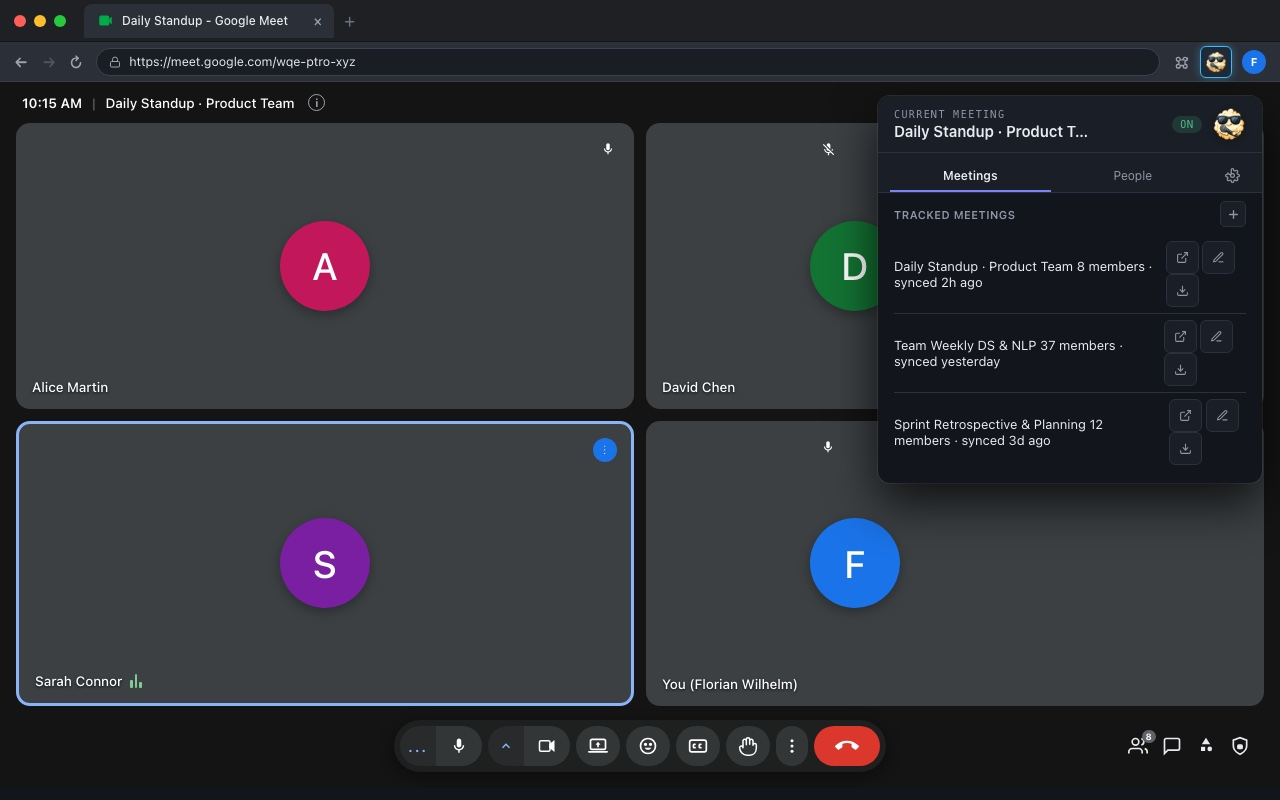
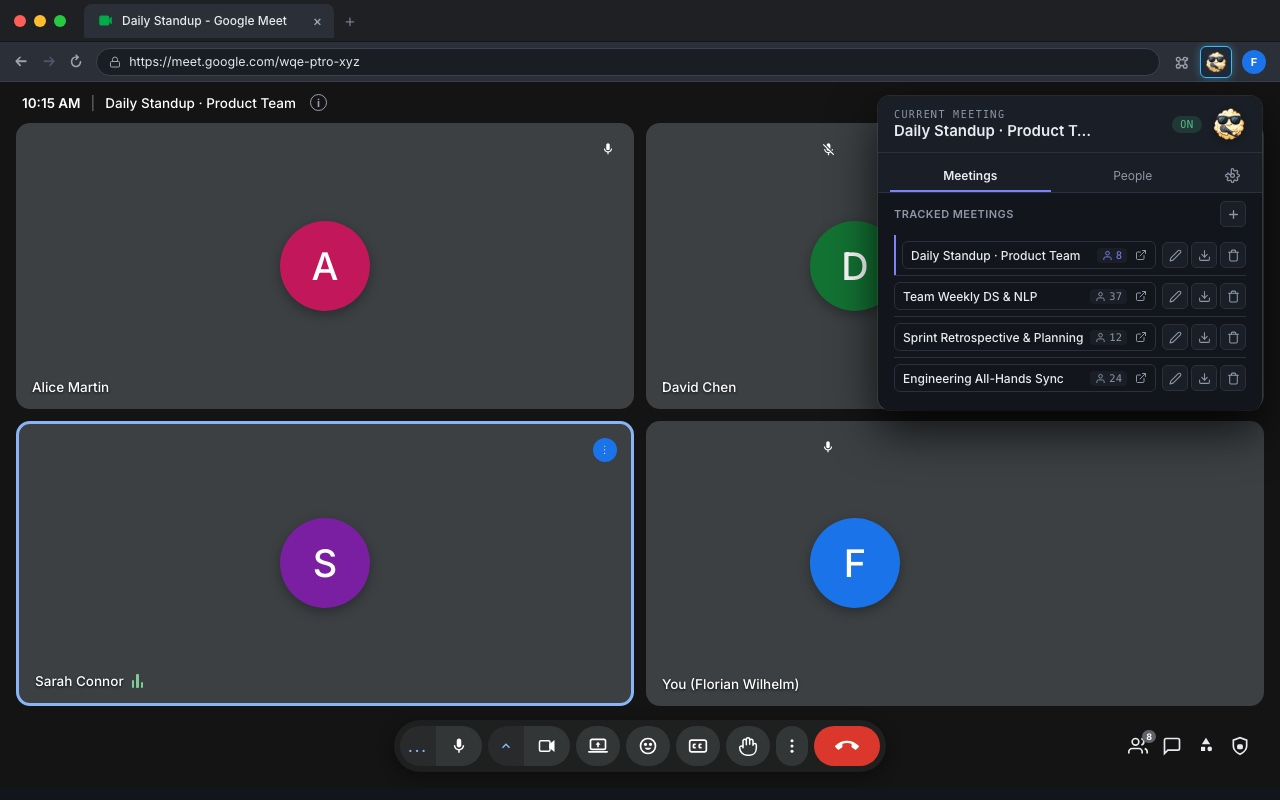
fix(store): correct meetings screenshot and UI description
- Update meetings mockup in scripts/build_store_pages.js to authentically match popup.js DOM
- Remove non-existent sync timestamp references
- Update README.md meetings overview and quick action descriptions
- Re-render store screenshots

diff --git a/scripts/build_store_pages.js b/scripts/build_store_pages.js
@@ -840,48 +840,167 @@ const s2Popup = `
     <!-- Meetings Scroll Area -->
     <div class="meetings-scroll-area">
       <ul class="list">
-        <!-- Meeting 1 -->
-        <li class="item meeting-item active">
-          <div class="meeting-info">
-            <span class="meeting-title">Daily Standup · Product Team</span>
-            <span class="meeting-sub">8 members · synced 2h ago</span>
+        <!-- Meeting 1: Active Meeting -->
+        <li class="meeting current">
+          <div class="meeting-box">
+            <input type="text" class="meeting-name-input" value="Daily Standup · Product Team" title="Edit name" />
+            <div class="meeting-count" title="8 people (in progress)">
+              <svg width="11" height="11" viewBox="0 0 24 24" fill="none" stroke="currentColor" stroke-width="2" stroke-linecap="round" stroke-linejoin="round">
+                <path d="M20 21v-2a4 4 0 0 0-4-4H8a4 4 0 0 0-4 4v2"></path>
+                <circle cx="12" cy="7" r="4"></circle>
+              </svg>
+              <span>8</span>
+            </div>
+            <button class="meeting-open-btn" title="Open people list for this meeting" aria-label="Open meeting">
+              <svg width="12" height="12" viewBox="0 0 24 24" fill="none" stroke="currentColor" stroke-width="2" stroke-linecap="round" stroke-linejoin="round">
+                <path d="M18 13v6a2 2 0 0 1-2 2H5a2 2 0 0 1-2-2V8a2 2 0 0 1 2-2h6"></path>
+                <polyline points="15 3 21 3 21 9"></polyline>
+                <line x1="10" y1="14" x2="21" y2="3"></line>
+              </svg>
+            </button>
           </div>
-          <div class="meeting-actions">
-            <button class="ghost icon-btn" title="Open meeting link">
-              <svg width="13" height="13" viewBox="0 0 24 24" fill="none" stroke="currentColor" stroke-width="2"><path d="M18 13v6a2 2 0 0 1-2 2H5a2 2 0 0 1-2-2V8a2 2 0 0 1 2-2h6"/><polyline points="15 3 21 3 21 9"/><line x1="10" y1="14" x2="21" y2="3"/></svg>
+          <div class="actions">
+            <button class="mini ghost icon-btn" title="View, edit, or copy Markdown" aria-label="Edit Markdown">
+              <svg width="13" height="13" viewBox="0 0 24 24" fill="none" stroke="currentColor" stroke-width="2" stroke-linecap="round" stroke-linejoin="round">
+                <path d="M17 3a2.828 2.828 0 1 1 4 4L7.5 20.5 2 22l1.5-5.5L17 3z"></path>
+              </svg>
             </button>
-            <button class="ghost icon-btn" title="Edit Markdown table">
-              <svg width="13" height="13" viewBox="0 0 24 24" fill="none" stroke="currentColor" stroke-width="2"><path d="M12 20h9"/><path d="M16.5 3.5a2.121 2.121 0 0 1 3 3L7 19l-4 1 1-4L16.5 3.5z"/></svg>
+            <button class="mini ghost icon-btn" title="Export as Markdown file (.md)" aria-label="Export as Markdown file">
+              <svg width="13" height="13" viewBox="0 0 24 24" fill="none" stroke="currentColor" stroke-width="2" stroke-linecap="round" stroke-linejoin="round">
+                <path d="M21 15v4a2 2 0 0 1-2 2H5a2 2 0 0 1-2-2v-4"></path>
+                <polyline points="7 10 12 15 17 10"></polyline>
+                <line x1="12" y1="15" x2="12" y2="3"></line>
+              </svg>
             </button>
-            <button class="ghost icon-btn" title="Export meeting">
-              <svg width="13" height="13" viewBox="0 0 24 24" fill="none" stroke="currentColor" stroke-width="2"><path d="M21 15v4a2 2 0 0 1-2 2H5a2 2 0 0 1-2-2v-4"/><polyline points="7 10 12 15 17 10"/><line x1="12" y1="15" x2="12" y2="3"/></svg>
+            <button class="mini ghost icon-btn danger" title="Stop tracking and delete history" aria-label="Delete meeting">
+              <svg width="13" height="13" viewBox="0 0 24 24" fill="none" stroke="currentColor" stroke-width="2" stroke-linecap="round" stroke-linejoin="round">
+                <path d="M3 6h18"></path>
+                <path d="M19 6v14a2 2 0 0 1-2 2H7a2 2 0 0 1-2-2V6m3 0V4a2 2 0 0 1 2-2h4a2 2 0 0 1 2 2v2"></path>
+              </svg>
             </button>
           </div>
         </li>
 
         <!-- Meeting 2 -->
-        <li class="item meeting-item">
-          <div class="meeting-info">
-            <span class="meeting-title">Team Weekly DS &amp; NLP</span>
-            <span class="meeting-sub">37 members · synced yesterday</span>
+        <li class="meeting">
+          <div class="meeting-box">
+            <input type="text" class="meeting-name-input" value="Team Weekly DS &amp; NLP" title="Edit name" />
+            <div class="meeting-count" title="37 people">
+              <svg width="11" height="11" viewBox="0 0 24 24" fill="none" stroke="currentColor" stroke-width="2" stroke-linecap="round" stroke-linejoin="round">
+                <path d="M20 21v-2a4 4 0 0 0-4-4H8a4 4 0 0 0-4 4v2"></path>
+                <circle cx="12" cy="7" r="4"></circle>
+              </svg>
+              <span>37</span>
+            </div>
+            <button class="meeting-open-btn" title="Open people list for this meeting" aria-label="Open meeting">
+              <svg width="12" height="12" viewBox="0 0 24 24" fill="none" stroke="currentColor" stroke-width="2" stroke-linecap="round" stroke-linejoin="round">
+                <path d="M18 13v6a2 2 0 0 1-2 2H5a2 2 0 0 1-2-2V8a2 2 0 0 1 2-2h6"></path>
+                <polyline points="15 3 21 3 21 9"></polyline>
+                <line x1="10" y1="14" x2="21" y2="3"></line>
+              </svg>
+            </button>
           </div>
-          <div class="meeting-actions">
-            <button class="ghost icon-btn"><svg width="13" height="13" viewBox="0 0 24 24" fill="none" stroke="currentColor" stroke-width="2"><path d="M18 13v6a2 2 0 0 1-2 2H5a2 2 0 0 1-2-2V8a2 2 0 0 1 2-2h6"/><polyline points="15 3 21 3 21 9"/><line x1="10" y1="14" x2="21" y2="3"/></svg></button>
-            <button class="ghost icon-btn"><svg width="13" height="13" viewBox="0 0 24 24" fill="none" stroke="currentColor" stroke-width="2"><path d="M12 20h9"/><path d="M16.5 3.5a2.121 2.121 0 0 1 3 3L7 19l-4 1 1-4L16.5 3.5z"/></svg></button>
-            <button class="ghost icon-btn"><svg width="13" height="13" viewBox="0 0 24 24" fill="none" stroke="currentColor" stroke-width="2"><path d="M21 15v4a2 2 0 0 1-2 2H5a2 2 0 0 1-2-2v-4"/><polyline points="7 10 12 15 17 10"/><line x1="12" y1="15" x2="12" y2="3"/></svg></button>
+          <div class="actions">
+            <button class="mini ghost icon-btn" title="View, edit, or copy Markdown" aria-label="Edit Markdown">
+              <svg width="13" height="13" viewBox="0 0 24 24" fill="none" stroke="currentColor" stroke-width="2" stroke-linecap="round" stroke-linejoin="round">
+                <path d="M17 3a2.828 2.828 0 1 1 4 4L7.5 20.5 2 22l1.5-5.5L17 3z"></path>
+              </svg>
+            </button>
+            <button class="mini ghost icon-btn" title="Export as Markdown file (.md)" aria-label="Export as Markdown file">
+              <svg width="13" height="13" viewBox="0 0 24 24" fill="none" stroke="currentColor" stroke-width="2" stroke-linecap="round" stroke-linejoin="round">
+                <path d="M21 15v4a2 2 0 0 1-2 2H5a2 2 0 0 1-2-2v-4"></path>
+                <polyline points="7 10 12 15 17 10"></polyline>
+                <line x1="12" y1="15" x2="12" y2="3"></line>
+              </svg>
+            </button>
+            <button class="mini ghost icon-btn danger" title="Stop tracking and delete history" aria-label="Delete meeting">
+              <svg width="13" height="13" viewBox="0 0 24 24" fill="none" stroke="currentColor" stroke-width="2" stroke-linecap="round" stroke-linejoin="round">
+                <path d="M3 6h18"></path>
+                <path d="M19 6v14a2 2 0 0 1-2 2H7a2 2 0 0 1-2-2V6m3 0V4a2 2 0 0 1 2-2h4a2 2 0 0 1 2 2v2"></path>
+              </svg>
+            </button>
           </div>
         </li>
 
-        <!-- Meeting 3 -->
-        <li class="item meeting-item">
-          <div class="meeting-info">
-            <span class="meeting-title">Sprint Retrospective &amp; Planning</span>
-            <span class="meeting-sub">12 members · synced 3d ago</span>
+        <!-- Meeting 3: Long name that demonstrates single-line input clipping -->
+        <li class="meeting">
+          <div class="meeting-box">
+            <input type="text" class="meeting-name-input" value="Sprint Retrospective &amp; Planning" title="Edit name" />
+            <div class="meeting-count" title="12 people">
+              <svg width="11" height="11" viewBox="0 0 24 24" fill="none" stroke="currentColor" stroke-width="2" stroke-linecap="round" stroke-linejoin="round">
+                <path d="M20 21v-2a4 4 0 0 0-4-4H8a4 4 0 0 0-4 4v2"></path>
+                <circle cx="12" cy="7" r="4"></circle>
+              </svg>
+              <span>12</span>
+            </div>
+            <button class="meeting-open-btn" title="Open people list for this meeting" aria-label="Open meeting">
+              <svg width="12" height="12" viewBox="0 0 24 24" fill="none" stroke="currentColor" stroke-width="2" stroke-linecap="round" stroke-linejoin="round">
+                <path d="M18 13v6a2 2 0 0 1-2 2H5a2 2 0 0 1-2-2V8a2 2 0 0 1 2-2h6"></path>
+                <polyline points="15 3 21 3 21 9"></polyline>
+                <line x1="10" y1="14" x2="21" y2="3"></line>
+              </svg>
+            </button>
           </div>
-          <div class="meeting-actions">
-            <button class="ghost icon-btn"><svg width="13" height="13" viewBox="0 0 24 24" fill="none" stroke="currentColor" stroke-width="2"><path d="M18 13v6a2 2 0 0 1-2 2H5a2 2 0 0 1-2-2V8a2 2 0 0 1 2-2h6"/><polyline points="15 3 21 3 21 9"/><line x1="10" y1="14" x2="21" y2="3"/></svg></button>
-            <button class="ghost icon-btn"><svg width="13" height="13" viewBox="0 0 24 24" fill="none" stroke="currentColor" stroke-width="2"><path d="M12 20h9"/><path d="M16.5 3.5a2.121 2.121 0 0 1 3 3L7 19l-4 1 1-4L16.5 3.5z"/></svg></button>
-            <button class="ghost icon-btn"><svg width="13" height="13" viewBox="0 0 24 24" fill="none" stroke="currentColor" stroke-width="2"><path d="M21 15v4a2 2 0 0 1-2 2H5a2 2 0 0 1-2-2v-4"/><polyline points="7 10 12 15 17 10"/><line x1="12" y1="15" x2="12" y2="3"/></svg></button>
+          <div class="actions">
+            <button class="mini ghost icon-btn" title="View, edit, or copy Markdown" aria-label="Edit Markdown">
+              <svg width="13" height="13" viewBox="0 0 24 24" fill="none" stroke="currentColor" stroke-width="2" stroke-linecap="round" stroke-linejoin="round">
+                <path d="M17 3a2.828 2.828 0 1 1 4 4L7.5 20.5 2 22l1.5-5.5L17 3z"></path>
+              </svg>
+            </button>
+            <button class="mini ghost icon-btn" title="Export as Markdown file (.md)" aria-label="Export as Markdown file">
+              <svg width="13" height="13" viewBox="0 0 24 24" fill="none" stroke="currentColor" stroke-width="2" stroke-linecap="round" stroke-linejoin="round">
+                <path d="M21 15v4a2 2 0 0 1-2 2H5a2 2 0 0 1-2-2v-4"></path>
+                <polyline points="7 10 12 15 17 10"></polyline>
+                <line x1="12" y1="15" x2="12" y2="3"></line>
+              </svg>
+            </button>
+            <button class="mini ghost icon-btn danger" title="Stop tracking and delete history" aria-label="Delete meeting">
+              <svg width="13" height="13" viewBox="0 0 24 24" fill="none" stroke="currentColor" stroke-width="2" stroke-linecap="round" stroke-linejoin="round">
+                <path d="M3 6h18"></path>
+                <path d="M19 6v14a2 2 0 0 1-2 2H7a2 2 0 0 1-2-2V6m3 0V4a2 2 0 0 1 2-2h4a2 2 0 0 1 2 2v2"></path>
+              </svg>
+            </button>
+          </div>
+        </li>
+
+        <!-- Meeting 4 -->
+        <li class="meeting">
+          <div class="meeting-box">
+            <input type="text" class="meeting-name-input" value="Engineering All-Hands Sync" title="Edit name" />
+            <div class="meeting-count" title="24 people">
+              <svg width="11" height="11" viewBox="0 0 24 24" fill="none" stroke="currentColor" stroke-width="2" stroke-linecap="round" stroke-linejoin="round">
+                <path d="M20 21v-2a4 4 0 0 0-4-4H8a4 4 0 0 0-4 4v2"></path>
+                <circle cx="12" cy="7" r="4"></circle>
+              </svg>
+              <span>24</span>
+            </div>
+            <button class="meeting-open-btn" title="Open people list for this meeting" aria-label="Open meeting">
+              <svg width="12" height="12" viewBox="0 0 24 24" fill="none" stroke="currentColor" stroke-width="2" stroke-linecap="round" stroke-linejoin="round">
+                <path d="M18 13v6a2 2 0 0 1-2 2H5a2 2 0 0 1-2-2V8a2 2 0 0 1 2-2h6"></path>
+                <polyline points="15 3 21 3 21 9"></polyline>
+                <line x1="10" y1="14" x2="21" y2="3"></line>
+              </svg>
+            </button>
+          </div>
+          <div class="actions">
+            <button class="mini ghost icon-btn" title="View, edit, or copy Markdown" aria-label="Edit Markdown">
+              <svg width="13" height="13" viewBox="0 0 24 24" fill="none" stroke="currentColor" stroke-width="2" stroke-linecap="round" stroke-linejoin="round">
+                <path d="M17 3a2.828 2.828 0 1 1 4 4L7.5 20.5 2 22l1.5-5.5L17 3z"></path>
+              </svg>
+            </button>
+            <button class="mini ghost icon-btn" title="Export as Markdown file (.md)" aria-label="Export as Markdown file">
+              <svg width="13" height="13" viewBox="0 0 24 24" fill="none" stroke="currentColor" stroke-width="2" stroke-linecap="round" stroke-linejoin="round">
+                <path d="M21 15v4a2 2 0 0 1-2 2H5a2 2 0 0 1-2-2v-4"></path>
+                <polyline points="7 10 12 15 17 10"></polyline>
+                <line x1="12" y1="15" x2="12" y2="3"></line>
+              </svg>
+            </button>
+            <button class="mini ghost icon-btn danger" title="Stop tracking and delete history" aria-label="Delete meeting">
+              <svg width="13" height="13" viewBox="0 0 24 24" fill="none" stroke="currentColor" stroke-width="2" stroke-linecap="round" stroke-linejoin="round">
+                <path d="M3 6h18"></path>
+                <path d="M19 6v14a2 2 0 0 1-2 2H7a2 2 0 0 1-2-2V6m3 0V4a2 2 0 0 1 2-2h4a2 2 0 0 1 2 2v2"></path>
+              </svg>
+            </button>
           </div>
         </li>
       </ul>

diff --git a/scripts/render_screenshots_chrome.js b/scripts/render_screenshots_chrome.js
@@ -74,10 +74,12 @@ function renderAsset(asset) {
   const tempPng = path.join(tempDir, `${path.basename(asset.output, ".jpeg")}.png`);
   if (fs.existsSync(tempPng)) fs.unlinkSync(tempPng);
 
+  const userDataDir = path.join(tempDir, "user-data");
   const args = [
     "--headless=new",
     "--no-first-run",
     "--no-default-browser-check",
+    `--user-data-dir=${userDataDir}`,
     "--disable-gpu",
     "--disable-extensions",
     "--disable-background-networking",

diff --git a/README.md b/README.md
@@ -92,11 +92,12 @@ Switch to the **Meetings** tab to see and manage all your tracked teams and recu
   <img src="store_assets/screenshot2_meetings_1280x800.jpeg" alt="POPCORN Multi-Meeting Management" width="100%" />
 </p>
 
-- **Meeting Overview:** See all tracked meetings, active status, attendee count, and last sync time.
+- **Meeting Overview:** See all tracked meetings, inline-editable meeting names, attendee counts, and the currently active meeting indicator.
 - **Quick Actions:**
-  - 🔗 **Open Meeting:** Jump directly to the meeting URL.
-  - 📝 **Markdown Editor:** Open the in-app Markdown table editor for that meeting.
+  - ↗ **Open Meeting:** Switch directly to the People roster and rotation for that meeting.
+  - 📝 **Markdown Editor:** Open the in-app Markdown roster editor for that meeting.
   - 💾 **Export Meeting:** Download the meeting's roster and update history as a `.md` file.
+  - 🗑 **Delete Meeting:** Stop tracking and delete meeting history.
 - **Add / Import:** Click the **➕** button at the top to create a new meeting or paste in an existing Markdown table.
 
 ---
